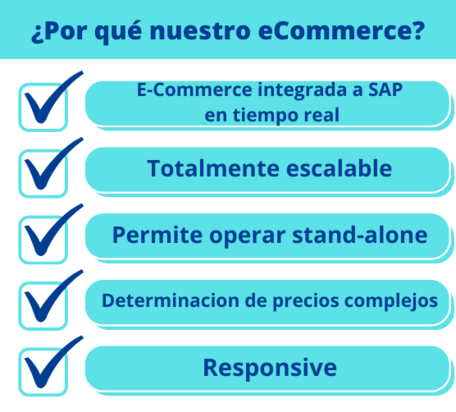
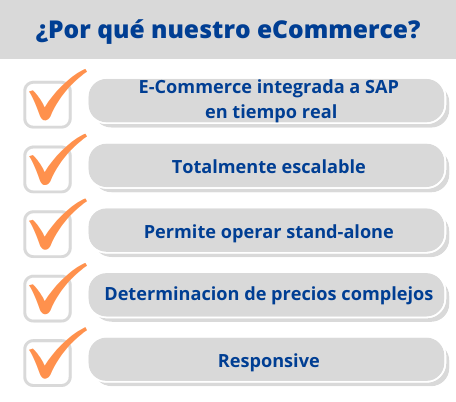
fix 20/07

diff --git a/index.html b/index.html
@@ -282,6 +282,8 @@
             <br>■ Estadísticas por Google Analytics.
             <br>■ Generación de e-mails con información de promociones y campañas.
             <br>
+            
+            <img width="567" src="images/Features//ecom.jpg" style="margin-top: 20px">
             </p>          
             <button class="readMore_btn" id="leerMasECom">Saber Más</button>
         </div>
